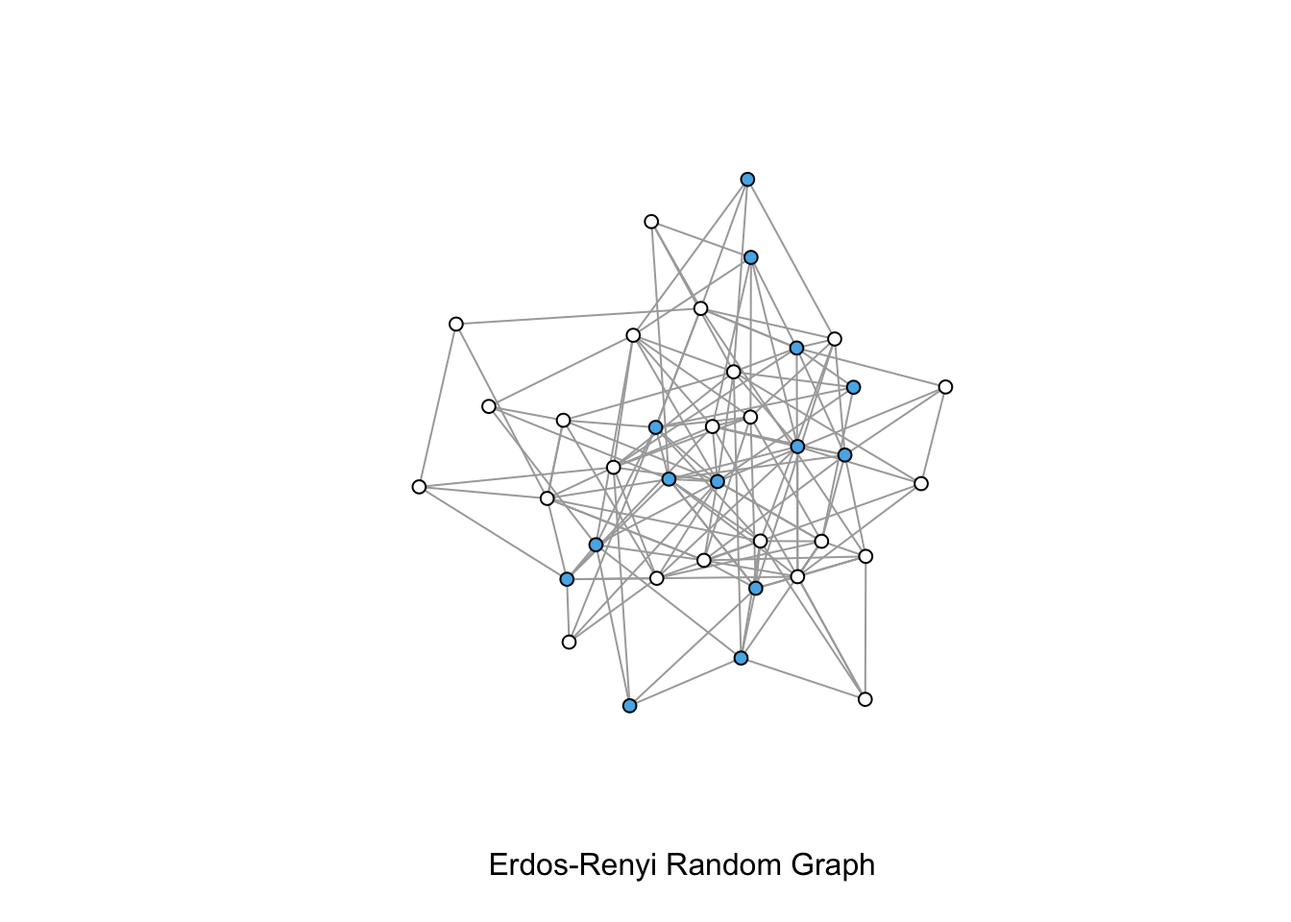
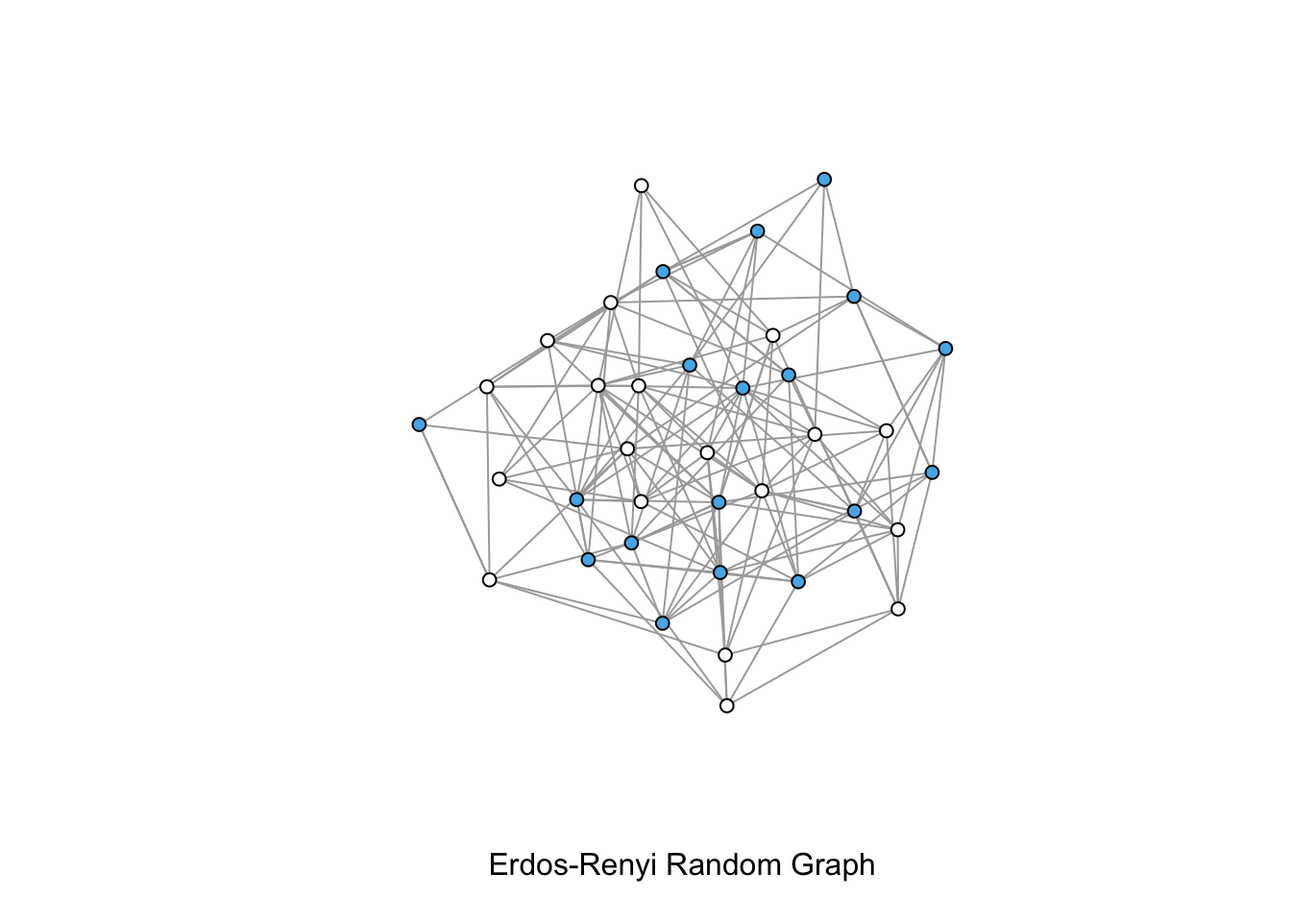
Update file

Changed region(s): [[0.3125, 0.1875, 0.75, 0.7812]]

diff --git a/lectures/004_local/week4_local.html b/lectures/004_local/week4_local.html
@@ -167,8 +167,9 @@ pre > code.sourceCode > span > a:first-child::before { text-decoration: underlin
 <div class="cell">
 <div class="sourceCode cell-code" id="cb12"><pre class="sourceCode r code-with-copy"><code class="sourceCode r"><span id="cb12-1"><a href="#cb12-1" aria-hidden="true" tabindex="-1"></a>ctest<span class="sc">$</span>csize</span></code><button title="Copy to Clipboard" class="code-copy-button"><i class="bi"></i></button></pre></div>
 <div class="cell-output cell-output-stdout">
-<pre><code> [1] 1 8 1 1 1 1 2 3 1 1 1 7 4 1 1 2 1 1 9 1 1 1 2 1 1 1 1 1 1 1 1 2 1 2 1 1 1 1
-[39] 1 1 1 1 1 1 1 1 1 2 2 3 1 3 1 2 1 1 2 1 1 1 1</code></pre>
+<pre><code> [1]  2  1  1  1  2  2  1  7  4  4  1  1  3  1  1  1 11  1  1  1  1  4  3  2  1
+[26]  2  3  1  1  1  1  1  1  1  1  1  1  1  1  1  1  1  1  2  2  1  1  1  3  1
+[51]  1  1  1  1  1  1  1  1  1  1</code></pre>
 </div>
 </div>
 <p>You may want to remove isolates. You can do this by identifying them by degree and using <code>delete_vertices</code>:</p>
@@ -290,7 +291,8 @@ pre > code.sourceCode > span > a:first-child::before { text-decoration: underlin
 </figure>
 </div>
 </div>
-<div class="sourceCode cell-code" id="cb27"><pre class="sourceCode r code-with-copy"><code class="sourceCode r"><span id="cb27-1"><a href="#cb27-1" aria-hidden="true" tabindex="-1"></a><span class="fu">mixingm</span>(valente, <span class="st">'gender'</span>)  <span class="co"># the density option would provide proportional representation</span></span></code><button title="Copy to Clipboard" class="code-copy-button"><i class="bi"></i></button></pre></div>
+<div class="sourceCode cell-code" id="cb27"><pre class="sourceCode r code-with-copy"><code class="sourceCode r"><span id="cb27-1"><a href="#cb27-1" aria-hidden="true" tabindex="-1"></a>genmix <span class="ot">&lt;-</span> <span class="fu">mixingm</span>(valente, <span class="st">'gender'</span>)    </span>
+<span id="cb27-2"><a href="#cb27-2" aria-hidden="true" tabindex="-1"></a><span class="fu">print</span>(genmix)</span></code><button title="Copy to Clipboard" class="code-copy-button"><i class="bi"></i></button></pre></div>
 <div class="cell-output cell-output-stdout">
 <pre><code>   alter
 ego  0  1
@@ -298,26 +300,37 @@ ego  0  1
   1  3 82</code></pre>
 </div>
 </div>
+<p>We can easily construct a proprtional mixing matrix using base R.</p>
+<div class="cell">
+<div class="sourceCode cell-code" id="cb29"><pre class="sourceCode r code-with-copy"><code class="sourceCode r"><span id="cb29-1"><a href="#cb29-1" aria-hidden="true" tabindex="-1"></a>prop_genmix <span class="ot">&lt;-</span> genmix <span class="sc">/</span> <span class="fu">rowSums</span>(genmix)</span>
+<span id="cb29-2"><a href="#cb29-2" aria-hidden="true" tabindex="-1"></a><span class="fu">round</span>(prop_genmix, <span class="dv">3</span>)</span></code><button title="Copy to Clipboard" class="code-copy-button"><i class="bi"></i></button></pre></div>
+<div class="cell-output cell-output-stdout">
+<pre><code>   alter
+ego     0     1
+  0 1.000 0.000
+  1 0.035 0.965</code></pre>
+</div>
+</div>
 <p>Now let’s compare to a random graph with the same number of nodes and edges. We use the <code>sample_gnm()</code> function to make this random graph.</p>
 <div class="cell">
-<div class="sourceCode cell-code" id="cb29"><pre class="sourceCode r code-with-copy"><code class="sourceCode r"><span id="cb29-1"><a href="#cb29-1" aria-hidden="true" tabindex="-1"></a>rg <span class="ot">&lt;-</span> <span class="fu">sample_gnm</span>(<span class="fu">length</span>(<span class="fu">V</span>(valente)), <span class="fu">length</span>(<span class="fu">E</span>(valente)),  <span class="at">directed=</span>T)   <span class="co"># a random graph with the same number of nodes &amp; edges as the Valente graph above</span></span>
-<span id="cb29-2"><a href="#cb29-2" aria-hidden="true" tabindex="-1"></a></span>
-<span id="cb29-3"><a href="#cb29-3" aria-hidden="true" tabindex="-1"></a><span class="fu">V</span>(rg)<span class="sc">$</span>gender <span class="ot">&lt;-</span> <span class="fu">sample</span>(<span class="fu">c</span>(<span class="dv">0</span>,<span class="dv">1</span>), <span class="fu">length</span>(<span class="fu">V</span>(rg)), <span class="at">replace=</span>T, <span class="at">prob=</span><span class="fu">c</span>(<span class="dv">22</span><span class="sc">/</span><span class="dv">37</span>, <span class="dv">15</span><span class="sc">/</span><span class="dv">37</span>))  <span class="co">#randomly assigning gender, matching the probabilities from the Valente graph</span></span>
-<span id="cb29-4"><a href="#cb29-4" aria-hidden="true" tabindex="-1"></a></span>
-<span id="cb29-5"><a href="#cb29-5" aria-hidden="true" tabindex="-1"></a><span class="fu">plot</span>(rg, <span class="at">vertex.label=</span> <span class="cn">NA</span>, <span class="at">edge.arrow.size=</span><span class="fl">0.02</span>,<span class="at">vertex.size =</span> <span class="dv">5</span>, <span class="at">vertex.color=</span><span class="fu">V</span>(rg)<span class="sc">$</span>gender<span class="sc">*</span><span class="dv">2</span>, <span class="at">xlab =</span> <span class="st">"Erdos-Renyi Random Graph"</span>)</span></code><button title="Copy to Clipboard" class="code-copy-button"><i class="bi"></i></button></pre></div>
+<div class="sourceCode cell-code" id="cb31"><pre class="sourceCode r code-with-copy"><code class="sourceCode r"><span id="cb31-1"><a href="#cb31-1" aria-hidden="true" tabindex="-1"></a>rg <span class="ot">&lt;-</span> <span class="fu">sample_gnm</span>(<span class="fu">length</span>(<span class="fu">V</span>(valente)), <span class="fu">length</span>(<span class="fu">E</span>(valente)),  <span class="at">directed=</span>T)   <span class="co"># a random graph with the same number of nodes &amp; edges as the Valente graph above</span></span>
+<span id="cb31-2"><a href="#cb31-2" aria-hidden="true" tabindex="-1"></a></span>
+<span id="cb31-3"><a href="#cb31-3" aria-hidden="true" tabindex="-1"></a><span class="fu">V</span>(rg)<span class="sc">$</span>gender <span class="ot">&lt;-</span> <span class="fu">sample</span>(<span class="fu">c</span>(<span class="dv">0</span>,<span class="dv">1</span>), <span class="fu">length</span>(<span class="fu">V</span>(rg)), <span class="at">replace=</span>T, <span class="at">prob=</span><span class="fu">c</span>(<span class="dv">22</span><span class="sc">/</span><span class="dv">37</span>, <span class="dv">15</span><span class="sc">/</span><span class="dv">37</span>))  <span class="co">#randomly assigning gender, matching the probabilities from the Valente graph</span></span>
+<span id="cb31-4"><a href="#cb31-4" aria-hidden="true" tabindex="-1"></a></span>
+<span id="cb31-5"><a href="#cb31-5" aria-hidden="true" tabindex="-1"></a><span class="fu">plot</span>(rg, <span class="at">vertex.label=</span> <span class="cn">NA</span>, <span class="at">edge.arrow.size=</span><span class="fl">0.02</span>,<span class="at">vertex.size =</span> <span class="dv">5</span>, <span class="at">vertex.color=</span><span class="fu">V</span>(rg)<span class="sc">$</span>gender<span class="sc">*</span><span class="dv">2</span>, <span class="at">xlab =</span> <span class="st">"Erdos-Renyi Random Graph"</span>)</span></code><button title="Copy to Clipboard" class="code-copy-button"><i class="bi"></i></button></pre></div>
 <div class="cell-output-display">
 <div>
 <figure class="figure">
-<p><img src="week4_local_files/figure-html/unnamed-chunk-16-1.png" class="img-fluid figure-img" width="672"></p>
+<p><img src="week4_local_files/figure-html/unnamed-chunk-17-1.png" class="img-fluid figure-img" width="672"></p>
 </figure>
 </div>
 </div>
-<div class="sourceCode cell-code" id="cb30"><pre class="sourceCode r code-with-copy"><code class="sourceCode r"><span id="cb30-1"><a href="#cb30-1" aria-hidden="true" tabindex="-1"></a><span class="fu">mixingm</span>(rg, <span class="st">'gender'</span>)   </span></code><button title="Copy to Clipboard" class="code-copy-button"><i class="bi"></i></button></pre></div>
+<div class="sourceCode cell-code" id="cb32"><pre class="sourceCode r code-with-copy"><code class="sourceCode r"><span id="cb32-1"><a href="#cb32-1" aria-hidden="true" tabindex="-1"></a><span class="fu">mixingm</span>(rg, <span class="st">'gender'</span>)   </span></code><button title="Copy to Clipboard" class="code-copy-button"><i class="bi"></i></button></pre></div>
 <div class="cell-output cell-output-stdout">
 <pre><code>   alter
 ego  0  1
-  0 52 32
-  1 39 22</code></pre>
+  0 47 34
+  1 37 27</code></pre>
 </div>
 </div>
 <p>Note that your results will differ from mine. These are random draws.</p>
@@ -325,13 +338,13 @@ ego  0  1
 <p>See:</p>
 <p>Newman, M. E. (2003). Mixing patterns in networks. Physical review E, 67(2), 026126.</p>
 <div class="cell">
-<div class="sourceCode cell-code" id="cb32"><pre class="sourceCode r code-with-copy"><code class="sourceCode r"><span id="cb32-1"><a href="#cb32-1" aria-hidden="true" tabindex="-1"></a><span class="fu">assortativity</span>(valente, <span class="fu">V</span>(valente)<span class="sc">$</span>gender)</span></code><button title="Copy to Clipboard" class="code-copy-button"><i class="bi"></i></button></pre></div>
+<div class="sourceCode cell-code" id="cb34"><pre class="sourceCode r code-with-copy"><code class="sourceCode r"><span id="cb34-1"><a href="#cb34-1" aria-hidden="true" tabindex="-1"></a><span class="fu">assortativity</span>(valente, <span class="fu">V</span>(valente)<span class="sc">$</span>gender)</span></code><button title="Copy to Clipboard" class="code-copy-button"><i class="bi"></i></button></pre></div>
 <div class="cell-output cell-output-stdout">
 <pre><code>[1] 0.9585236</code></pre>
 </div>
-<div class="sourceCode cell-code" id="cb34"><pre class="sourceCode r code-with-copy"><code class="sourceCode r"><span id="cb34-1"><a href="#cb34-1" aria-hidden="true" tabindex="-1"></a><span class="fu">assortativity</span>(rg, <span class="fu">V</span>(rg)<span class="sc">$</span>gender)</span></code><button title="Copy to Clipboard" class="code-copy-button"><i class="bi"></i></button></pre></div>
+<div class="sourceCode cell-code" id="cb36"><pre class="sourceCode r code-with-copy"><code class="sourceCode r"><span id="cb36-1"><a href="#cb36-1" aria-hidden="true" tabindex="-1"></a><span class="fu">assortativity</span>(rg, <span class="fu">V</span>(rg)<span class="sc">$</span>gender)</span></code><button title="Copy to Clipboard" class="code-copy-button"><i class="bi"></i></button></pre></div>
 <div class="cell-output cell-output-stdout">
-<pre><code>[1] -0.0207258</code></pre>
+<pre><code>[1] 0.002134301</code></pre>
 </div>
 </div>
 </section>
@@ -339,13 +352,13 @@ ego  0  1
 <h2 class="anchored" data-anchor-id="network-composition-and-segregation">Network Composition and Segregation</h2>
 <p>One way of thinking about how a network is segregated is to calculate the odds of a within-group tie. The <code>netseg</code> package has a function - <code>orwg</code> - to construct this ratio.</p>
 <div class="cell">
-<div class="sourceCode cell-code" id="cb36"><pre class="sourceCode r code-with-copy"><code class="sourceCode r"><span id="cb36-1"><a href="#cb36-1" aria-hidden="true" tabindex="-1"></a><span class="fu">orwg</span>(<span class="fu">simplify</span>(valente), <span class="st">"gender"</span>) </span></code><button title="Copy to Clipboard" class="code-copy-button"><i class="bi"></i></button></pre></div>
+<div class="sourceCode cell-code" id="cb38"><pre class="sourceCode r code-with-copy"><code class="sourceCode r"><span id="cb38-1"><a href="#cb38-1" aria-hidden="true" tabindex="-1"></a><span class="fu">orwg</span>(<span class="fu">simplify</span>(valente), <span class="st">"gender"</span>) </span></code><button title="Copy to Clipboard" class="code-copy-button"><i class="bi"></i></button></pre></div>
 <div class="cell-output cell-output-stdout">
 <pre><code>[1] 58.15254</code></pre>
 </div>
-<div class="sourceCode cell-code" id="cb38"><pre class="sourceCode r code-with-copy"><code class="sourceCode r"><span id="cb38-1"><a href="#cb38-1" aria-hidden="true" tabindex="-1"></a><span class="fu">orwg</span>(<span class="fu">simplify</span>(rg), <span class="st">"gender"</span>) </span></code><button title="Copy to Clipboard" class="code-copy-button"><i class="bi"></i></button></pre></div>
+<div class="sourceCode cell-code" id="cb40"><pre class="sourceCode r code-with-copy"><code class="sourceCode r"><span id="cb40-1"><a href="#cb40-1" aria-hidden="true" tabindex="-1"></a><span class="fu">orwg</span>(<span class="fu">simplify</span>(rg), <span class="st">"gender"</span>) </span></code><button title="Copy to Clipboard" class="code-copy-button"><i class="bi"></i></button></pre></div>
 <div class="cell-output cell-output-stdout">
-<pre><code>[1] 0.9726568</code></pre>
+<pre><code>[1] 1.068932</code></pre>
 </div>
 </div>
 <p>So the odds of a same gender tie are 58 times greater than the odds of a tie between boys and girls.</p>
@@ -356,18 +369,31 @@ ego  0  1
 <p>Network density provides an indication of the strong ties within the network.</p>
 <p>It is the number of ties/number of possible ties. We can find the measure for the entire graph. The <code>edge_density</code> function in <code>igraph</code> will compute this measure.</p>
 <div class="cell">
-<div class="sourceCode cell-code" id="cb40"><pre class="sourceCode r code-with-copy"><code class="sourceCode r"><span id="cb40-1"><a href="#cb40-1" aria-hidden="true" tabindex="-1"></a><span class="fu">edge_density</span>(valente)</span></code><button title="Copy to Clipboard" class="code-copy-button"><i class="bi"></i></button></pre></div>
+<div class="sourceCode cell-code" id="cb42"><pre class="sourceCode r code-with-copy"><code class="sourceCode r"><span id="cb42-1"><a href="#cb42-1" aria-hidden="true" tabindex="-1"></a><span class="fu">edge_density</span>(valente)</span></code><button title="Copy to Clipboard" class="code-copy-button"><i class="bi"></i></button></pre></div>
 <div class="cell-output cell-output-stdout">
 <pre><code>[1] 0.1088589</code></pre>
 </div>
 </div>
 <p>We can also compute the density for each ego network within a graph.</p>
-<p>If you have an <code>igraph</code> object, you can pull out each ego network using <code>make_ego_net</code>.</p>
+<p>If you have an <code>igraph</code> object, you can pull out each ego network using <code>make_ego_net</code>. Then you can plot ego networks.</p>
 <div class="cell">
-<div class="sourceCode cell-code" id="cb42"><pre class="sourceCode r code-with-copy"><code class="sourceCode r"><span id="cb42-1"><a href="#cb42-1" aria-hidden="true" tabindex="-1"></a>valente_ego_dens <span class="ot">&lt;-</span> <span class="fu">make_ego_graph</span>(valente, <span class="dv">1</span>) <span class="sc">%&gt;%</span></span>
-<span id="cb42-2"><a href="#cb42-2" aria-hidden="true" tabindex="-1"></a><span class="fu">vapply</span>(graph.density, <span class="fu">numeric</span>(<span class="dv">1</span>))</span>
-<span id="cb42-3"><a href="#cb42-3" aria-hidden="true" tabindex="-1"></a></span>
-<span id="cb42-4"><a href="#cb42-4" aria-hidden="true" tabindex="-1"></a><span class="fu">head</span>(valente_ego_dens)</span></code><button title="Copy to Clipboard" class="code-copy-button"><i class="bi"></i></button></pre></div>
+<div class="sourceCode cell-code" id="cb44"><pre class="sourceCode r code-with-copy"><code class="sourceCode r"><span id="cb44-1"><a href="#cb44-1" aria-hidden="true" tabindex="-1"></a>vego <span class="ot">&lt;-</span> <span class="fu">make_ego_graph</span>(valente, <span class="dv">1</span>) </span>
+<span id="cb44-2"><a href="#cb44-2" aria-hidden="true" tabindex="-1"></a></span>
+<span id="cb44-3"><a href="#cb44-3" aria-hidden="true" tabindex="-1"></a><span class="fu">plot.igraph</span>(vego[[<span class="dv">4</span>]], <span class="at">edge.arrow.size=</span>.<span class="dv">2</span>, <span class="at">vertex.label.cex=</span>.<span class="dv">5</span>)</span></code><button title="Copy to Clipboard" class="code-copy-button"><i class="bi"></i></button></pre></div>
+<div class="cell-output-display">
+<div>
+<figure class="figure">
+<p><img src="week4_local_files/figure-html/unnamed-chunk-21-1.png" class="img-fluid figure-img" width="672"></p>
+</figure>
+</div>
+</div>
+</div>
+<p>Then you can use <code>graph.density</code> to calculate density across the egos. Note that you can pipe this so you don’t need to store the egos.</p>
+<div class="cell">
+<div class="sourceCode cell-code" id="cb45"><pre class="sourceCode r code-with-copy"><code class="sourceCode r"><span id="cb45-1"><a href="#cb45-1" aria-hidden="true" tabindex="-1"></a>valente_ego_dens <span class="ot">&lt;-</span> <span class="fu">make_ego_graph</span>(valente, <span class="dv">1</span>) <span class="sc">%&gt;%</span></span>
+<span id="cb45-2"><a href="#cb45-2" aria-hidden="true" tabindex="-1"></a><span class="fu">vapply</span>(graph.density, <span class="fu">numeric</span>(<span class="dv">1</span>))</span>
+<span id="cb45-3"><a href="#cb45-3" aria-hidden="true" tabindex="-1"></a></span>
+<span id="cb45-4"><a href="#cb45-4" aria-hidden="true" tabindex="-1"></a><span class="fu">head</span>(valente_ego_dens)</span></code><button title="Copy to Clipboard" class="code-copy-button"><i class="bi"></i></button></pre></div>
 <div class="cell-output cell-output-stdout">
 <pre><code>[1] 0.5833333 0.2321429 0.4761905 0.3928571 0.5476190 0.8000000</code></pre>
 </div>
@@ -375,29 +401,29 @@ ego  0  1
 <p>We may want to know the relationship between ego network density and ego network size. Are larger networks more dense.</p>
 <p>We can use the <code>ego_size()</code> function to calculate the size of each ego’s local network.</p>
 <div class="cell">
-<div class="sourceCode cell-code" id="cb44"><pre class="sourceCode r code-with-copy"><code class="sourceCode r"><span id="cb44-1"><a href="#cb44-1" aria-hidden="true" tabindex="-1"></a>ego.size <span class="ot">&lt;-</span> <span class="fu">ego_size</span>(valente)</span></code><button title="Copy to Clipboard" class="code-copy-button"><i class="bi"></i></button></pre></div>
+<div class="sourceCode cell-code" id="cb47"><pre class="sourceCode r code-with-copy"><code class="sourceCode r"><span id="cb47-1"><a href="#cb47-1" aria-hidden="true" tabindex="-1"></a>ego.size <span class="ot">&lt;-</span> <span class="fu">ego_size</span>(valente)</span></code><button title="Copy to Clipboard" class="code-copy-button"><i class="bi"></i></button></pre></div>
 </div>
 <p>And we can check out the average ego network size now by just using the <code>mean()</code> function in base R.</p>
 <div class="cell">
-<div class="sourceCode cell-code" id="cb45"><pre class="sourceCode r code-with-copy"><code class="sourceCode r"><span id="cb45-1"><a href="#cb45-1" aria-hidden="true" tabindex="-1"></a><span class="fu">mean</span>(ego.size)</span></code><button title="Copy to Clipboard" class="code-copy-button"><i class="bi"></i></button></pre></div>
+<div class="sourceCode cell-code" id="cb48"><pre class="sourceCode r code-with-copy"><code class="sourceCode r"><span id="cb48-1"><a href="#cb48-1" aria-hidden="true" tabindex="-1"></a><span class="fu">mean</span>(ego.size)</span></code><button title="Copy to Clipboard" class="code-copy-button"><i class="bi"></i></button></pre></div>
 <div class="cell-output cell-output-stdout">
 <pre><code>[1] 6.945946</code></pre>
 </div>
 </div>
 <p>We can store these in a data frame for easy access.</p>
 <div class="cell">
-<div class="sourceCode cell-code" id="cb47"><pre class="sourceCode r code-with-copy"><code class="sourceCode r"><span id="cb47-1"><a href="#cb47-1" aria-hidden="true" tabindex="-1"></a>den.df<span class="ot">&lt;-</span><span class="fu">data.frame</span>(<span class="at">density=</span>valente_ego_dens, <span class="at">size=</span>ego.size)</span></code><button title="Copy to Clipboard" class="code-copy-button"><i class="bi"></i></button></pre></div>
+<div class="sourceCode cell-code" id="cb50"><pre class="sourceCode r code-with-copy"><code class="sourceCode r"><span id="cb50-1"><a href="#cb50-1" aria-hidden="true" tabindex="-1"></a>den.df<span class="ot">&lt;-</span><span class="fu">data.frame</span>(<span class="at">density=</span>valente_ego_dens, <span class="at">size=</span>ego.size)</span></code><button title="Copy to Clipboard" class="code-copy-button"><i class="bi"></i></button></pre></div>
 </div>
 <p>And we can plot the relationship in <code>ggplot</code>.</p>
 <div class="cell">
-<div class="sourceCode cell-code" id="cb48"><pre class="sourceCode r code-with-copy"><code class="sourceCode r"><span id="cb48-1"><a href="#cb48-1" aria-hidden="true" tabindex="-1"></a><span class="fu">ggplot</span>(<span class="at">data=</span>den.df, <span class="fu">aes</span>(size, density))<span class="sc">+</span></span>
-<span id="cb48-2"><a href="#cb48-2" aria-hidden="true" tabindex="-1"></a>  <span class="fu">geom_point</span>()<span class="sc">+</span></span>
-<span id="cb48-3"><a href="#cb48-3" aria-hidden="true" tabindex="-1"></a>  <span class="fu">geom_smooth</span>(<span class="at">method=</span><span class="st">'lm'</span>, <span class="at">level=</span>.<span class="dv">95</span>, <span class="at">formula=</span>y<span class="sc">~</span>x)<span class="sc">+</span></span>
-<span id="cb48-4"><a href="#cb48-4" aria-hidden="true" tabindex="-1"></a>  <span class="fu">theme</span>(<span class="at">panel.background =</span> <span class="fu">element_blank</span>())</span></code><button title="Copy to Clipboard" class="code-copy-button"><i class="bi"></i></button></pre></div>
+<div class="sourceCode cell-code" id="cb51"><pre class="sourceCode r code-with-copy"><code class="sourceCode r"><span id="cb51-1"><a href="#cb51-1" aria-hidden="true" tabindex="-1"></a><span class="fu">ggplot</span>(<span class="at">data=</span>den.df, <span class="fu">aes</span>(size, density))<span class="sc">+</span></span>
+<span id="cb51-2"><a href="#cb51-2" aria-hidden="true" tabindex="-1"></a>  <span class="fu">geom_point</span>()<span class="sc">+</span></span>
+<span id="cb51-3"><a href="#cb51-3" aria-hidden="true" tabindex="-1"></a>  <span class="fu">geom_smooth</span>(<span class="at">method=</span><span class="st">'lm'</span>, <span class="at">level=</span>.<span class="dv">95</span>, <span class="at">formula=</span>y<span class="sc">~</span>x)<span class="sc">+</span></span>
+<span id="cb51-4"><a href="#cb51-4" aria-hidden="true" tabindex="-1"></a>  <span class="fu">theme</span>(<span class="at">panel.background =</span> <span class="fu">element_blank</span>())</span></code><button title="Copy to Clipboard" class="code-copy-button"><i class="bi"></i></button></pre></div>
 <div class="cell-output-display">
 <div>
 <figure class="figure">
-<p><img src="week4_local_files/figure-html/unnamed-chunk-24-1.png" class="img-fluid figure-img" width="672"></p>
+<p><img src="week4_local_files/figure-html/unnamed-chunk-26-1.png" class="img-fluid figure-img" width="672"></p>
 </figure>
 </div>
 </div>
@@ -407,36 +433,36 @@ ego  0  1
 <h2 class="anchored" data-anchor-id="transitivity">Transitivity</h2>
 <p>Transitivity is a measure of local clustering. It consists of the proportion of closed triads given all possible triads. The <code>igraph</code> default for the <code>transitivity</code> function is for each node but you can also calculate for the whole graph. This is an indication of how much local clustering is occurring in the graph as a whole. Note that specifying “type=local” we are calculating over each respondents ego network.</p>
 <div class="cell">
-<div class="sourceCode cell-code" id="cb49"><pre class="sourceCode r code-with-copy"><code class="sourceCode r"><span id="cb49-1"><a href="#cb49-1" aria-hidden="true" tabindex="-1"></a><span class="fu">transitivity</span>(valente)</span></code><button title="Copy to Clipboard" class="code-copy-button"><i class="bi"></i></button></pre></div>
+<div class="sourceCode cell-code" id="cb52"><pre class="sourceCode r code-with-copy"><code class="sourceCode r"><span id="cb52-1"><a href="#cb52-1" aria-hidden="true" tabindex="-1"></a><span class="fu">transitivity</span>(valente)</span></code><button title="Copy to Clipboard" class="code-copy-button"><i class="bi"></i></button></pre></div>
 <div class="cell-output cell-output-stdout">
 <pre><code>[1] 0.5142857</code></pre>
 </div>
-<div class="sourceCode cell-code" id="cb51"><pre class="sourceCode r code-with-copy"><code class="sourceCode r"><span id="cb51-1"><a href="#cb51-1" aria-hidden="true" tabindex="-1"></a>transitive.valente <span class="ot">&lt;-</span> <span class="fu">transitivity</span>(valente, <span class="at">type=</span><span class="st">"local"</span>)</span>
-<span id="cb51-2"><a href="#cb51-2" aria-hidden="true" tabindex="-1"></a>ego.size <span class="ot">&lt;-</span> <span class="fu">ego_size</span>(valente)</span>
-<span id="cb51-3"><a href="#cb51-3" aria-hidden="true" tabindex="-1"></a></span>
-<span id="cb51-4"><a href="#cb51-4" aria-hidden="true" tabindex="-1"></a>tr.df <span class="ot">&lt;-</span> <span class="fu">data.frame</span>(<span class="at">transitivity=</span>transitive.valente, <span class="at">size=</span>ego.size)</span></code><button title="Copy to Clipboard" class="code-copy-button"><i class="bi"></i></button></pre></div>
+<div class="sourceCode cell-code" id="cb54"><pre class="sourceCode r code-with-copy"><code class="sourceCode r"><span id="cb54-1"><a href="#cb54-1" aria-hidden="true" tabindex="-1"></a>transitive.valente <span class="ot">&lt;-</span> <span class="fu">transitivity</span>(valente, <span class="at">type=</span><span class="st">"local"</span>)</span>
+<span id="cb54-2"><a href="#cb54-2" aria-hidden="true" tabindex="-1"></a>ego.size <span class="ot">&lt;-</span> <span class="fu">ego_size</span>(valente)</span>
+<span id="cb54-3"><a href="#cb54-3" aria-hidden="true" tabindex="-1"></a></span>
+<span id="cb54-4"><a href="#cb54-4" aria-hidden="true" tabindex="-1"></a>tr.df <span class="ot">&lt;-</span> <span class="fu">data.frame</span>(<span class="at">transitivity=</span>transitive.valente, <span class="at">size=</span>ego.size)</span></code><button title="Copy to Clipboard" class="code-copy-button"><i class="bi"></i></button></pre></div>
 </div>
 <p>We can plot transitivity by ego network size.</p>
 <div class="cell">
-<div class="sourceCode cell-code" id="cb52"><pre class="sourceCode r code-with-copy"><code class="sourceCode r"><span id="cb52-1"><a href="#cb52-1" aria-hidden="true" tabindex="-1"></a><span class="fu">ggplot</span>(<span class="at">data=</span>tr.df,<span class="fu">aes</span>(transitivity,size))<span class="sc">+</span></span>
-<span id="cb52-2"><a href="#cb52-2" aria-hidden="true" tabindex="-1"></a>  <span class="fu">geom_point</span>()<span class="sc">+</span></span>
-<span id="cb52-3"><a href="#cb52-3" aria-hidden="true" tabindex="-1"></a>  <span class="fu">geom_smooth</span>(<span class="at">method=</span><span class="st">'lm'</span>, <span class="at">level=</span>.<span class="dv">95</span>, <span class="at">formula=</span>y<span class="sc">~</span>x)<span class="sc">+</span></span>
-<span id="cb52-4"><a href="#cb52-4" aria-hidden="true" tabindex="-1"></a>  <span class="fu">theme</span>(<span class="at">panel.background =</span> <span class="fu">element_blank</span>())</span></code><button title="Copy to Clipboard" class="code-copy-button"><i class="bi"></i></button></pre></div>
+<div class="sourceCode cell-code" id="cb55"><pre class="sourceCode r code-with-copy"><code class="sourceCode r"><span id="cb55-1"><a href="#cb55-1" aria-hidden="true" tabindex="-1"></a><span class="fu">ggplot</span>(<span class="at">data=</span>tr.df,<span class="fu">aes</span>(transitivity,size))<span class="sc">+</span></span>
+<span id="cb55-2"><a href="#cb55-2" aria-hidden="true" tabindex="-1"></a>  <span class="fu">geom_point</span>()<span class="sc">+</span></span>
+<span id="cb55-3"><a href="#cb55-3" aria-hidden="true" tabindex="-1"></a>  <span class="fu">geom_smooth</span>(<span class="at">method=</span><span class="st">'lm'</span>, <span class="at">level=</span>.<span class="dv">95</span>, <span class="at">formula=</span>y<span class="sc">~</span>x)<span class="sc">+</span></span>
+<span id="cb55-4"><a href="#cb55-4" aria-hidden="true" tabindex="-1"></a>  <span class="fu">theme</span>(<span class="at">panel.background =</span> <span class="fu">element_blank</span>())</span></code><button title="Copy to Clipboard" class="code-copy-button"><i class="bi"></i></button></pre></div>
 <div class="cell-output-display">
 <div>
 <figure class="figure">
-<p><img src="week4_local_files/figure-html/unnamed-chunk-26-1.png" class="img-fluid figure-img" width="672"></p>
+<p><img src="week4_local_files/figure-html/unnamed-chunk-28-1.png" class="img-fluid figure-img" width="672"></p>
 </figure>
 </div>
 </div>
 </div>
 <p>And plot transitivity as node size in a network.</p>
 <div class="cell">
-<div class="sourceCode cell-code" id="cb53"><pre class="sourceCode r code-with-copy"><code class="sourceCode r"><span id="cb53-1"><a href="#cb53-1" aria-hidden="true" tabindex="-1"></a><span class="fu">plot.igraph</span>(valente, <span class="at">vertex.size=</span>transitive.valente<span class="sc">*</span><span class="dv">20</span>, <span class="at">edge.arrow.size=</span>.<span class="dv">5</span>, <span class="at">vertex.color=</span><span class="fu">V</span>(valente)<span class="sc">$</span>gender)</span></code><button title="Copy to Clipboard" class="code-copy-button"><i class="bi"></i></button></pre></div>
+<div class="sourceCode cell-code" id="cb56"><pre class="sourceCode r code-with-copy"><code class="sourceCode r"><span id="cb56-1"><a href="#cb56-1" aria-hidden="true" tabindex="-1"></a><span class="fu">plot.igraph</span>(valente, <span class="at">vertex.size=</span>transitive.valente<span class="sc">*</span><span class="dv">20</span>, <span class="at">edge.arrow.size=</span>.<span class="dv">5</span>, <span class="at">vertex.color=</span><span class="fu">V</span>(valente)<span class="sc">$</span>gender)</span></code><button title="Copy to Clipboard" class="code-copy-button"><i class="bi"></i></button></pre></div>
 <div class="cell-output-display">
 <div>
 <figure class="figure">
-<p><img src="week4_local_files/figure-html/unnamed-chunk-27-1.png" class="img-fluid figure-img" width="672"></p>
+<p><img src="week4_local_files/figure-html/unnamed-chunk-29-1.png" class="img-fluid figure-img" width="672"></p>
 </figure>
 </div>
 </div>
@@ -450,47 +476,47 @@ ego  0  1
 <p>Burt, R. S. (2015). Reinforced structural holes. Social Networks, 43, 149-161.</p>
 <p>Burt, R. S. (1997). A note on social capital and network content. Social networks, 19(4), 355-373.</p>
 <div class="cell">
-<div class="sourceCode cell-code" id="cb54"><pre class="sourceCode r code-with-copy"><code class="sourceCode r"><span id="cb54-1"><a href="#cb54-1" aria-hidden="true" tabindex="-1"></a>constraint.valente <span class="ot">&lt;-</span> <span class="fu">constraint</span>(valente)</span>
-<span id="cb54-2"><a href="#cb54-2" aria-hidden="true" tabindex="-1"></a>ego.size <span class="ot">&lt;-</span> <span class="fu">ego_size</span>(valente)</span>
-<span id="cb54-3"><a href="#cb54-3" aria-hidden="true" tabindex="-1"></a></span>
-<span id="cb54-4"><a href="#cb54-4" aria-hidden="true" tabindex="-1"></a>con.df <span class="ot">&lt;-</span> <span class="fu">data.frame</span>(<span class="at">constraint=</span>constraint.valente, <span class="at">size=</span>ego.size)</span></code><button title="Copy to Clipboard" class="code-copy-button"><i class="bi"></i></button></pre></div>
+<div class="sourceCode cell-code" id="cb57"><pre class="sourceCode r code-with-copy"><code class="sourceCode r"><span id="cb57-1"><a href="#cb57-1" aria-hidden="true" tabindex="-1"></a>constraint.valente <span class="ot">&lt;-</span> <span class="fu">constraint</span>(valente)</span>
+<span id="cb57-2"><a href="#cb57-2" aria-hidden="true" tabindex="-1"></a>ego.size <span class="ot">&lt;-</span> <span class="fu">ego_size</span>(valente)</span>
+<span id="cb57-3"><a href="#cb57-3" aria-hidden="true" tabindex="-1"></a></span>
+<span id="cb57-4"><a href="#cb57-4" aria-hidden="true" tabindex="-1"></a>con.df <span class="ot">&lt;-</span> <span class="fu">data.frame</span>(<span class="at">constraint=</span>constraint.valente, <span class="at">size=</span>ego.size)</span></code><button title="Copy to Clipboard" class="code-copy-button"><i class="bi"></i></button></pre></div>
 </div>
 <p>We can look at the relationship between size and constraint.</p>
 <div class="cell">
-<div class="sourceCode cell-code" id="cb55"><pre class="sourceCode r code-with-copy"><code class="sourceCode r"><span id="cb55-1"><a href="#cb55-1" aria-hidden="true" tabindex="-1"></a><span class="fu">ggplot</span>(<span class="at">data=</span>con.df,<span class="fu">aes</span>(constraint,size))<span class="sc">+</span></span>
-<span id="cb55-2"><a href="#cb55-2" aria-hidden="true" tabindex="-1"></a>  <span class="fu">geom_point</span>()<span class="sc">+</span></span>
-<span id="cb55-3"><a href="#cb55-3" aria-hidden="true" tabindex="-1"></a>  <span class="fu">geom_smooth</span>(<span class="at">method=</span><span class="st">'lm'</span>, <span class="at">level=</span>.<span class="dv">95</span>, <span class="at">formula=</span>y<span class="sc">~</span>x)<span class="sc">+</span></span>
-<span id="cb55-4"><a href="#cb55-4" aria-hidden="true" tabindex="-1"></a>  <span class="fu">theme</span>(<span class="at">panel.background =</span> <span class="fu">element_blank</span>())</span></code><button title="Copy to Clipboard" class="code-copy-button"><i class="bi"></i></button></pre></div>
+<div class="sourceCode cell-code" id="cb58"><pre class="sourceCode r code-with-copy"><code class="sourceCode r"><span id="cb58-1"><a href="#cb58-1" aria-hidden="true" tabindex="-1"></a><span class="fu">ggplot</span>(<span class="at">data=</span>con.df,<span class="fu">aes</span>(constraint,size))<span class="sc">+</span></span>
+<span id="cb58-2"><a href="#cb58-2" aria-hidden="true" tabindex="-1"></a>  <span class="fu">geom_point</span>()<span class="sc">+</span></span>
+<span id="cb58-3"><a href="#cb58-3" aria-hidden="true" tabindex="-1"></a>  <span class="fu">geom_smooth</span>(<span class="at">method=</span><span class="st">'lm'</span>, <span class="at">level=</span>.<span class="dv">95</span>, <span class="at">formula=</span>y<span class="sc">~</span>x)<span class="sc">+</span></span>
+<span id="cb58-4"><a href="#cb58-4" aria-hidden="true" tabindex="-1"></a>  <span class="fu">theme</span>(<span class="at">panel.background =</span> <span class="fu">element_blank</span>())</span></code><button title="Copy to Clipboard" class="code-copy-button"><i class="bi"></i></button></pre></div>
 <div class="cell-output-display">
 <div>
 <figure class="figure">
-<p><img src="week4_local_files/figure-html/unnamed-chunk-29-1.png" class="img-fluid figure-img" width="672"></p>
+<p><img src="week4_local_files/figure-html/unnamed-chunk-31-1.png" class="img-fluid figure-img" width="672"></p>
 </figure>
 </div>
 </div>
 </div>
 <p>And plot as node size.</p>
 <div class="cell">
-<div class="sourceCode cell-code" id="cb56"><pre class="sourceCode r code-with-copy"><code class="sourceCode r"><span id="cb56-1"><a href="#cb56-1" aria-hidden="true" tabindex="-1"></a>l <span class="ot">&lt;-</span> <span class="fu">layout_with_kk</span>(valente)</span>
-<span id="cb56-2"><a href="#cb56-2" aria-hidden="true" tabindex="-1"></a></span>
-<span id="cb56-3"><a href="#cb56-3" aria-hidden="true" tabindex="-1"></a><span class="fu">plot.igraph</span>(valente, <span class="at">vertex.size=</span>con.df<span class="sc">$</span>constraint<span class="sc">*</span><span class="dv">10</span>, <span class="at">edge.arrow.size=</span>.<span class="dv">01</span>, <span class="at">layout=</span>l, <span class="at">vertex.color=</span><span class="fu">V</span>(valente)<span class="sc">$</span>gender)</span></code><button title="Copy to Clipboard" class="code-copy-button"><i class="bi"></i></button></pre></div>
+<div class="sourceCode cell-code" id="cb59"><pre class="sourceCode r code-with-copy"><code class="sourceCode r"><span id="cb59-1"><a href="#cb59-1" aria-hidden="true" tabindex="-1"></a>l <span class="ot">&lt;-</span> <span class="fu">layout_with_kk</span>(valente)</span>
+<span id="cb59-2"><a href="#cb59-2" aria-hidden="true" tabindex="-1"></a></span>
+<span id="cb59-3"><a href="#cb59-3" aria-hidden="true" tabindex="-1"></a><span class="fu">plot.igraph</span>(valente, <span class="at">vertex.size=</span>con.df<span class="sc">$</span>constraint<span class="sc">*</span><span class="dv">10</span>, <span class="at">edge.arrow.size=</span>.<span class="dv">01</span>, <span class="at">layout=</span>l, <span class="at">vertex.color=</span><span class="fu">V</span>(valente)<span class="sc">$</span>gender)</span></code><button title="Copy to Clipboard" class="code-copy-button"><i class="bi"></i></button></pre></div>
 <div class="cell-output-display">
 <div>
 <figure class="figure">
-<p><img src="week4_local_files/figure-html/unnamed-chunk-30-1.png" class="img-fluid figure-img" width="672"></p>
+<p><img src="week4_local_files/figure-html/unnamed-chunk-32-1.png" class="img-fluid figure-img" width="672"></p>
 </figure>
 </div>
 </div>
 </div>
 <p>The inverse of constraint is one way to think about brokerage. The maximal number of Burt’s constraint is 1.125. So, if we subtract 1.125 from constraint we have one brokerage score.</p>
 <div class="cell">
-<div class="sourceCode cell-code" id="cb57"><pre class="sourceCode r code-with-copy"><code class="sourceCode r"><span id="cb57-1"><a href="#cb57-1" aria-hidden="true" tabindex="-1"></a>con.df<span class="sc">$</span>inv <span class="ot">&lt;-</span> <span class="fl">1.125</span><span class="sc">-</span>con.df<span class="sc">$</span>constraint</span>
-<span id="cb57-2"><a href="#cb57-2" aria-hidden="true" tabindex="-1"></a></span>
-<span id="cb57-3"><a href="#cb57-3" aria-hidden="true" tabindex="-1"></a><span class="fu">plot.igraph</span>(valente, <span class="at">vertex.size=</span>con.df<span class="sc">$</span>inv<span class="sc">*</span><span class="dv">10</span>, <span class="at">edge.arrow.size=</span>.<span class="dv">5</span>, <span class="at">vertex.color=</span><span class="fu">V</span>(valente)<span class="sc">$</span>gender)</span></code><button title="Copy to Clipboard" class="code-copy-button"><i class="bi"></i></button></pre></div>
+<div class="sourceCode cell-code" id="cb60"><pre class="sourceCode r code-with-copy"><code class="sourceCode r"><span id="cb60-1"><a href="#cb60-1" aria-hidden="true" tabindex="-1"></a>con.df<span class="sc">$</span>inv <span class="ot">&lt;-</span> <span class="fl">1.125</span><span class="sc">-</span>con.df<span class="sc">$</span>constraint</span>
+<span id="cb60-2"><a href="#cb60-2" aria-hidden="true" tabindex="-1"></a></span>
+<span id="cb60-3"><a href="#cb60-3" aria-hidden="true" tabindex="-1"></a><span class="fu">plot.igraph</span>(valente, <span class="at">vertex.size=</span>con.df<span class="sc">$</span>inv<span class="sc">*</span><span class="dv">10</span>, <span class="at">edge.arrow.size=</span>.<span class="dv">5</span>, <span class="at">vertex.color=</span><span class="fu">V</span>(valente)<span class="sc">$</span>gender)</span></code><button title="Copy to Clipboard" class="code-copy-button"><i class="bi"></i></button></pre></div>
 <div class="cell-output-display">
 <div>
 <figure class="figure">
-<p><img src="week4_local_files/figure-html/unnamed-chunk-31-1.png" class="img-fluid figure-img" width="672"></p>
+<p><img src="week4_local_files/figure-html/unnamed-chunk-33-1.png" class="img-fluid figure-img" width="672"></p>
 </figure>
 </div>
 </div>
@@ -503,37 +529,37 @@ ego  0  1
 <p>See: Watts, D. J., &amp; Strogatz, S. H. (1998). Collective dynamics of ’small-world’networks. nature, 393(6684), 440-442.</p>
 <p>Watts, D. J. (2004). Small worlds: the dynamics of networks between order and randomness. Princeton university press.</p>
 <div class="cell">
-<div class="sourceCode cell-code" id="cb58"><pre class="sourceCode r code-with-copy"><code class="sourceCode r"><span id="cb58-1"><a href="#cb58-1" aria-hidden="true" tabindex="-1"></a>small <span class="ot">&lt;-</span> <span class="fu">sample_smallworld</span>(<span class="dv">1</span>, <span class="dv">37</span>, <span class="fu">mean</span>(<span class="fu">degree</span>(valente)), <span class="fl">0.5</span>, <span class="at">loops =</span> <span class="cn">FALSE</span>, <span class="at">multiple =</span> <span class="cn">FALSE</span>)</span>
-<span id="cb58-2"><a href="#cb58-2" aria-hidden="true" tabindex="-1"></a></span>
-<span id="cb58-3"><a href="#cb58-3" aria-hidden="true" tabindex="-1"></a><span class="fu">plot</span>(small, <span class="at">vertex.label=</span> <span class="cn">NA</span>, <span class="at">edge.arrow.size=</span><span class="fl">0.02</span>,<span class="at">vertex.size =</span> <span class="dv">5</span>, <span class="at">xlab =</span> <span class="st">"Small world model"</span>)</span></code><button title="Copy to Clipboard" class="code-copy-button"><i class="bi"></i></button></pre></div>
+<div class="sourceCode cell-code" id="cb61"><pre class="sourceCode r code-with-copy"><code class="sourceCode r"><span id="cb61-1"><a href="#cb61-1" aria-hidden="true" tabindex="-1"></a>small <span class="ot">&lt;-</span> <span class="fu">sample_smallworld</span>(<span class="dv">1</span>, <span class="dv">37</span>, <span class="fu">mean</span>(<span class="fu">degree</span>(valente)), <span class="fl">0.5</span>, <span class="at">loops =</span> <span class="cn">FALSE</span>, <span class="at">multiple =</span> <span class="cn">FALSE</span>)</span>
+<span id="cb61-2"><a href="#cb61-2" aria-hidden="true" tabindex="-1"></a></span>
+<span id="cb61-3"><a href="#cb61-3" aria-hidden="true" tabindex="-1"></a><span class="fu">plot</span>(small, <span class="at">vertex.label=</span> <span class="cn">NA</span>, <span class="at">edge.arrow.size=</span><span class="fl">0.02</span>,<span class="at">vertex.size =</span> <span class="dv">5</span>, <span class="at">xlab =</span> <span class="st">"Small world model"</span>)</span></code><button title="Copy to Clipboard" class="code-copy-button"><i class="bi"></i></button></pre></div>
 <div class="cell-output-display">
 <div>
 <figure class="figure">
-<p><img src="week4_local_files/figure-html/unnamed-chunk-32-1.png" class="img-fluid figure-img" width="672"></p>
+<p><img src="week4_local_files/figure-html/unnamed-chunk-34-1.png" class="img-fluid figure-img" width="672"></p>
 </figure>
 </div>
 </div>
-<div class="sourceCode cell-code" id="cb59"><pre class="sourceCode r code-with-copy"><code class="sourceCode r"><span id="cb59-1"><a href="#cb59-1" aria-hidden="true" tabindex="-1"></a><span class="fu">mean_distance</span>(small)</span></code><button title="Copy to Clipboard" class="code-copy-button"><i class="bi"></i></button></pre></div>
+<div class="sourceCode cell-code" id="cb62"><pre class="sourceCode r code-with-copy"><code class="sourceCode r"><span id="cb62-1"><a href="#cb62-1" aria-hidden="true" tabindex="-1"></a><span class="fu">mean_distance</span>(small)</span></code><button title="Copy to Clipboard" class="code-copy-button"><i class="bi"></i></button></pre></div>
 <div class="cell-output cell-output-stdout">
 <pre><code>[1] 1.612613</code></pre>
 </div>
-<div class="sourceCode cell-code" id="cb61"><pre class="sourceCode r code-with-copy"><code class="sourceCode r"><span id="cb61-1"><a href="#cb61-1" aria-hidden="true" tabindex="-1"></a><span class="fu">mean_distance</span>(rg)</span></code><button title="Copy to Clipboard" class="code-copy-button"><i class="bi"></i></button></pre></div>
+<div class="sourceCode cell-code" id="cb64"><pre class="sourceCode r code-with-copy"><code class="sourceCode r"><span id="cb64-1"><a href="#cb64-1" aria-hidden="true" tabindex="-1"></a><span class="fu">mean_distance</span>(rg)</span></code><button title="Copy to Clipboard" class="code-copy-button"><i class="bi"></i></button></pre></div>
 <div class="cell-output cell-output-stdout">
-<pre><code>[1] 2.628874</code></pre>
+<pre><code>[1] 2.668981</code></pre>
 </div>
-<div class="sourceCode cell-code" id="cb63"><pre class="sourceCode r code-with-copy"><code class="sourceCode r"><span id="cb63-1"><a href="#cb63-1" aria-hidden="true" tabindex="-1"></a><span class="fu">mean_distance</span>(valente)</span></code><button title="Copy to Clipboard" class="code-copy-button"><i class="bi"></i></button></pre></div>
+<div class="sourceCode cell-code" id="cb66"><pre class="sourceCode r code-with-copy"><code class="sourceCode r"><span id="cb66-1"><a href="#cb66-1" aria-hidden="true" tabindex="-1"></a><span class="fu">mean_distance</span>(valente)</span></code><button title="Copy to Clipboard" class="code-copy-button"><i class="bi"></i></button></pre></div>
 <div class="cell-output cell-output-stdout">
 <pre><code>[1] 3.424561</code></pre>
 </div>
-<div class="sourceCode cell-code" id="cb65"><pre class="sourceCode r code-with-copy"><code class="sourceCode r"><span id="cb65-1"><a href="#cb65-1" aria-hidden="true" tabindex="-1"></a><span class="fu">transitivity</span>(small)</span></code><button title="Copy to Clipboard" class="code-copy-button"><i class="bi"></i></button></pre></div>
+<div class="sourceCode cell-code" id="cb68"><pre class="sourceCode r code-with-copy"><code class="sourceCode r"><span id="cb68-1"><a href="#cb68-1" aria-hidden="true" tabindex="-1"></a><span class="fu">transitivity</span>(small)</span></code><button title="Copy to Clipboard" class="code-copy-button"><i class="bi"></i></button></pre></div>
 <div class="cell-output cell-output-stdout">
-<pre><code>[1] 0.3827792</code></pre>
+<pre><code>[1] 0.3872881</code></pre>
 </div>
-<div class="sourceCode cell-code" id="cb67"><pre class="sourceCode r code-with-copy"><code class="sourceCode r"><span id="cb67-1"><a href="#cb67-1" aria-hidden="true" tabindex="-1"></a><span class="fu">transitivity</span>(rg)</span></code><button title="Copy to Clipboard" class="code-copy-button"><i class="bi"></i></button></pre></div>
+<div class="sourceCode cell-code" id="cb70"><pre class="sourceCode r code-with-copy"><code class="sourceCode r"><span id="cb70-1"><a href="#cb70-1" aria-hidden="true" tabindex="-1"></a><span class="fu">transitivity</span>(rg)</span></code><button title="Copy to Clipboard" class="code-copy-button"><i class="bi"></i></button></pre></div>
 <div class="cell-output cell-output-stdout">
-<pre><code>[1] 0.1979167</code></pre>
+<pre><code>[1] 0.140708</code></pre>
 </div>
-<div class="sourceCode cell-code" id="cb69"><pre class="sourceCode r code-with-copy"><code class="sourceCode r"><span id="cb69-1"><a href="#cb69-1" aria-hidden="true" tabindex="-1"></a><span class="fu">transitivity</span>(valente)</span></code><button title="Copy to Clipboard" class="code-copy-button"><i class="bi"></i></button></pre></div>
+<div class="sourceCode cell-code" id="cb72"><pre class="sourceCode r code-with-copy"><code class="sourceCode r"><span id="cb72-1"><a href="#cb72-1" aria-hidden="true" tabindex="-1"></a><span class="fu">transitivity</span>(valente)</span></code><button title="Copy to Clipboard" class="code-copy-button"><i class="bi"></i></button></pre></div>
 <div class="cell-output cell-output-stdout">
 <pre><code>[1] 0.5142857</code></pre>
 </div>
